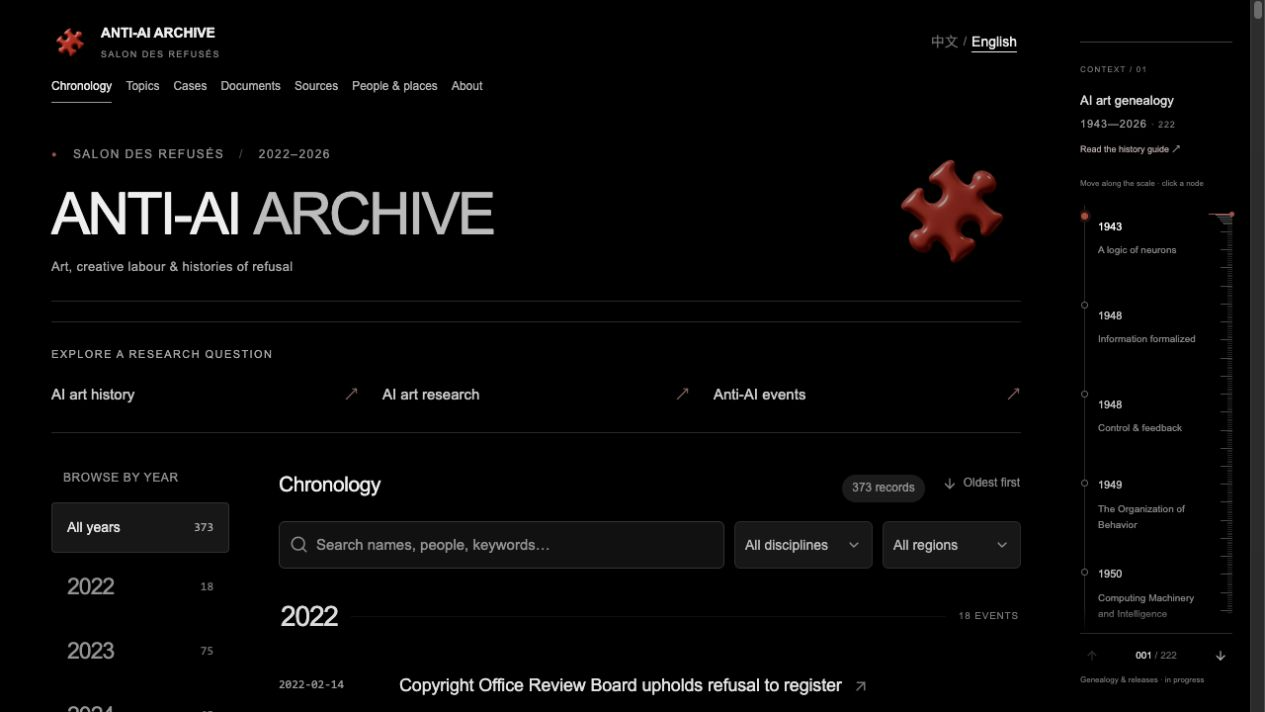
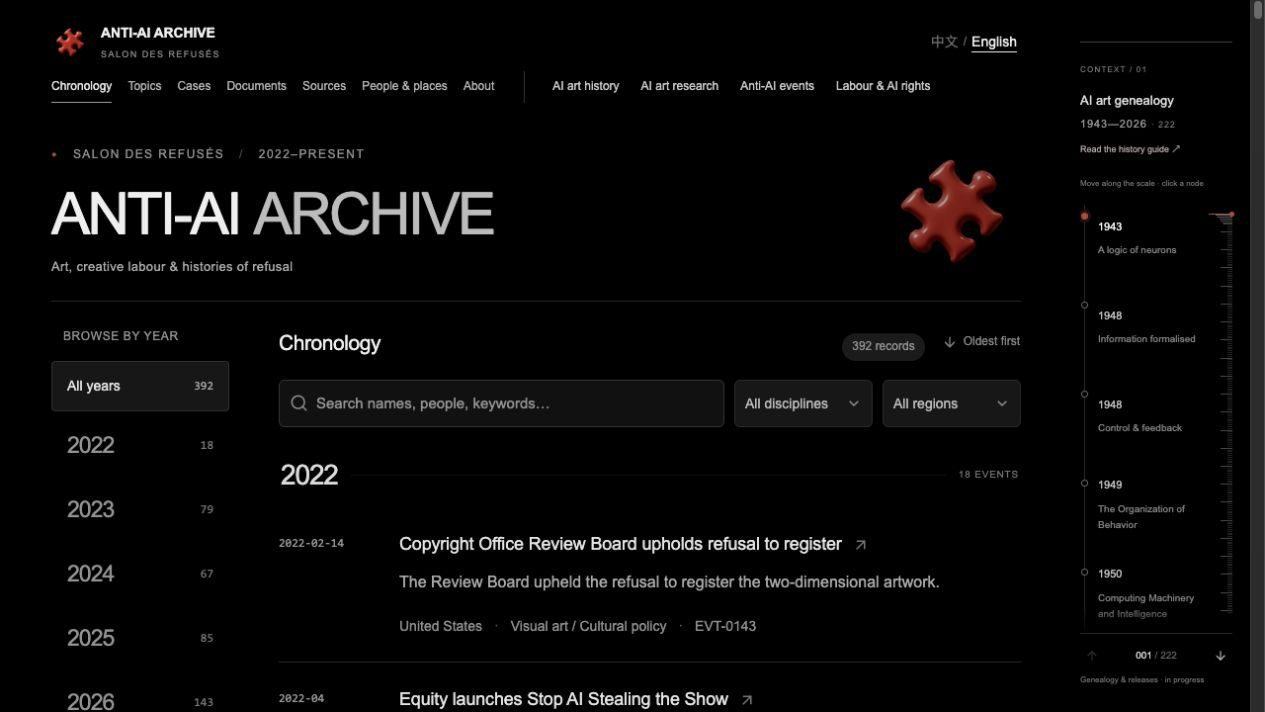
Refresh bilingual website previews and add citation and contribution entry points

diff --git a/CONTRIBUTING.md b/CONTRIBUTING.md
@@ -1,0 +1,35 @@
+# Contributing / 参与
+
+You do not need to code. Contributions may be submitted in the source language, Chinese or English. Editors review evidence and translations separately. / 无需会编程，可用来源原语言、中文或英文提交；编辑分别核读证据和审校译文。
+
+## Submit an event / 补充事件
+
+Use [the event form](https://github.com/HAOHAO1995/anti-ai-archive-showcase/issues/new?template=missing-event.yml). Include date and precision, title, actors, place/region, what changed, original source URL, primary evidence where available, and an existing case ID if applicable. / 请提供日期精度、标题、主体、地区、具体变化、原始来源及关联案例编号。
+
+## Submit a source / 推荐来源
+
+Use [the source form](https://github.com/HAOHAO1995/anti-ai-archive-showcase/issues/new?template=new-source.yml). Include URL, original title, author/publisher, publication date/language, primary or secondary character and relevant records. / 请提供原链接、原题、署名、日期与语言、一手或二手属性及关联记录。
+
+## Correct the archive / 勘误
+
+Use [the correction form](https://github.com/HAOHAO1995/anti-ai-archive-showcase/issues/new?template=source-correction.yml) for wrong dates, broken links, duplicate records, source or legal-status changes. Use [translation](https://github.com/HAOHAO1995/anti-ai-archive-showcase/issues/new?template=translation.yml) or [data error](https://github.com/HAOHAO1995/anti-ai-archive-showcase/issues/new?template=data-error.yml) for those specific problems. / 请说明现有内容、建议修正、证据与编号；翻译或数据错误使用对应表单。
+
+## Suggest a genealogy node / 推荐谱系节点
+
+Use [the genealogy form](https://github.com/HAOHAO1995/anti-ai-archive-showcase/issues/new?template=genealogy-node.yml). Provide a paper/model/artist/system, qualified date, historical relevance and primary reference. Distinguish a conceptual predecessor from a direct technical ancestor. / 提供论文、模型、艺术家或系统、日期精度、研究意义及原始出处；思想先例不等于直接技术祖先。
+
+## Editorial review / 编辑核读
+
+Preserve attribution and uncertainty. A claim, announcement, filing, ruling, settlement and implementation are not interchangeable. Do not convert a claimant's allegation into a court finding. / 保留归属与不确定性；指控、宣布、起诉、裁判、和解、实施不能混同。
+
+Identify AI-assisted translations and human review separately. Preserve original titles and URLs. Never invent official translations. / 标明 AI 辅助与人工审校，保留原题和原链接，不虚构官方译本。
+
+Issues are public. Do not upload private communications, sensitive personal information, unpublished drafts or third-party full texts. Links and short relevant evidence descriptions suffice. / Issues 是公开的，请勿上传私人通信、敏感信息、未公开草稿或第三方全文；提供链接与必要说明即可。
+
+Submitting material does not guarantee inclusion. Maintainers may request sources, narrow the scope, merge duplicates or explain a rejection. / 提交不保证收录，维护者可要求补证、缩小范围、合并重复或说明不收录理由。
+
+## Data corrections / 数据勘误
+
+Public dataset downloads are being prepared; their reuse license is pending. For now, report corrections using the archive page URL and record ID. / 可下载数据集正在准备，复用许可待确认。目前请通过档案页面链接与记录编号提交勘误。
+
+Submitting an Issue does not transfer copyright or grant a blanket reuse license. Include the attribution and any permission relevant to original material you submit. / 提交 Issue 不代表转让著作权或授予整体复用许可；请注明原创投稿的署名及适用授权。

diff --git a/docs/GOOD_FIRST_ISSUES.md b/docs/GOOD_FIRST_ISSUES.md
@@ -1,0 +1,14 @@
+# Good first issues / 入门贡献任务
+
+Created on GitHub on 2026-09-22; each has a bounded scope, evidence requirements and the `good first issue` label. / 已于 2026-09-22 在 GitHub 创建，每项明确范围、证据和入门标签。
+
+1. [[Good first issue] Check source links SRC-0001–0010 / 核对首十条来源链接](https://github.com/HAOHAO1995/anti-ai-archive-showcase/issues/1)
+2. [[Good first issue] Check source links SRC-0011–0020 / 核对第二组来源链接](https://github.com/HAOHAO1995/anti-ai-archive-showcase/issues/2)
+3. [[Good first issue] Review ArtStation policy dates / 核对 ArtStation 政策日期](https://github.com/HAOHAO1995/anti-ai-archive-showcase/issues/3)
+4. [[Good first issue] Review mimic Japanese source attribution / 核对 mimic 日文来源归属](https://github.com/HAOHAO1995/anti-ai-archive-showcase/issues/4)
+5. [[Good first issue] Review SAG-AFTRA agreement milestones / 核对 SAG-AFTRA 协议节点](https://github.com/HAOHAO1995/anti-ai-archive-showcase/issues/5)
+6. [[Good first issue] Review genealogy nodes 001–010 / 审阅前十个谱系节点](https://github.com/HAOHAO1995/anti-ai-archive-showcase/issues/6)
+7. [[Good first issue] Propose one missing genealogy node / 推荐一个遗漏谱系节点](https://github.com/HAOHAO1995/anti-ai-archive-showcase/issues/7)
+8. [[Good first issue] Review consent terminology in EVT-0001 / 审校同意与退出术语](https://github.com/HAOHAO1995/anti-ai-archive-showcase/issues/8)
+9. [[Good first issue] Check keyboard navigation and language continuity / 检查键盘与语言切换](https://github.com/HAOHAO1995/anti-ai-archive-showcase/issues/9)
+10. [[Good first issue] Review unknown publication date in SRC-0020 / 核对未知来源日期](https://github.com/HAOHAO1995/anti-ai-archive-showcase/issues/10)

diff --git a/README.md b/README.md
@@ -6,6 +6,20 @@
 🧩 [中文网站](https://www.salondesrefuses.cn/)  
 🧩 [English website](https://www.salondesrefuses.cn/en)  
 
+[引用 / Cite](CITATION.cff) · [参与 / Contribute](CONTRIBUTING.md) · [入门任务 / Good first issues](docs/GOOD_FIRST_ISSUES.md)
+
+[![Anti-AI Archive — English website preview](assets/website-en.png)](https://www.salondesrefuses.cn/en)
+
+<details>
+<summary>中文网页截图 / Chinese website preview</summary>
+
+[![ANTI-AI ARCHIVE — 中文网站预览](assets/website-zh.png)](https://www.salondesrefuses.cn/zh)
+
+</details>
+
+*Website screenshots captured on 22 September 2026. / 网页截图摄于 2026 年 9 月 22 日。*
+
+
 ANTI-AI ARCHIVE is an ongoing research project documenting the global history of resistance, negotiation, conflict, and institutional change surrounding generative AI since 2022.
 
 It does not treat “anti-AI” as a single ideology, nor as a simple opposition between humans and machines.
